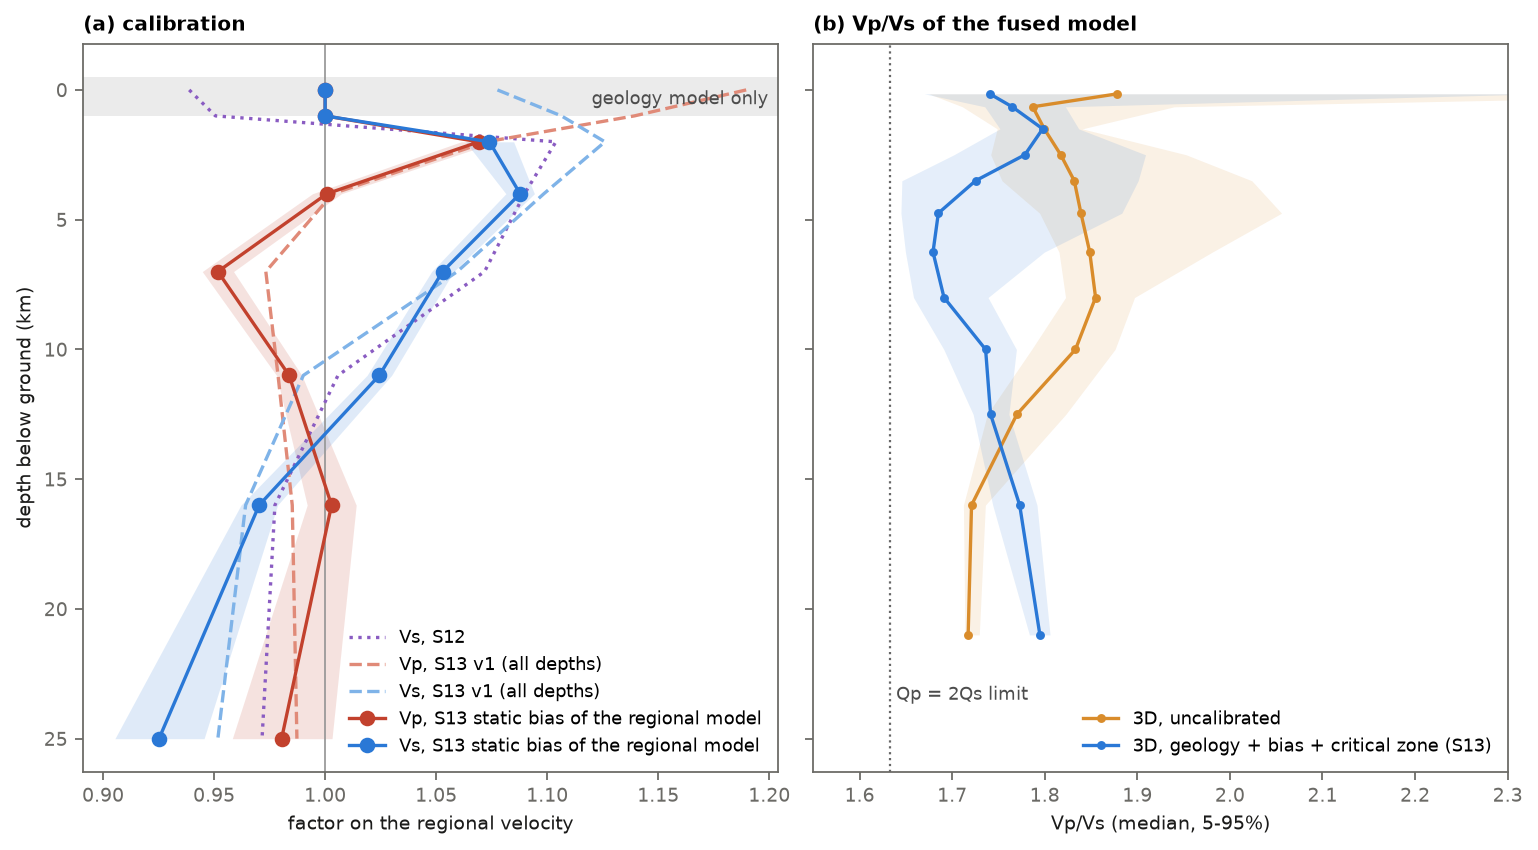
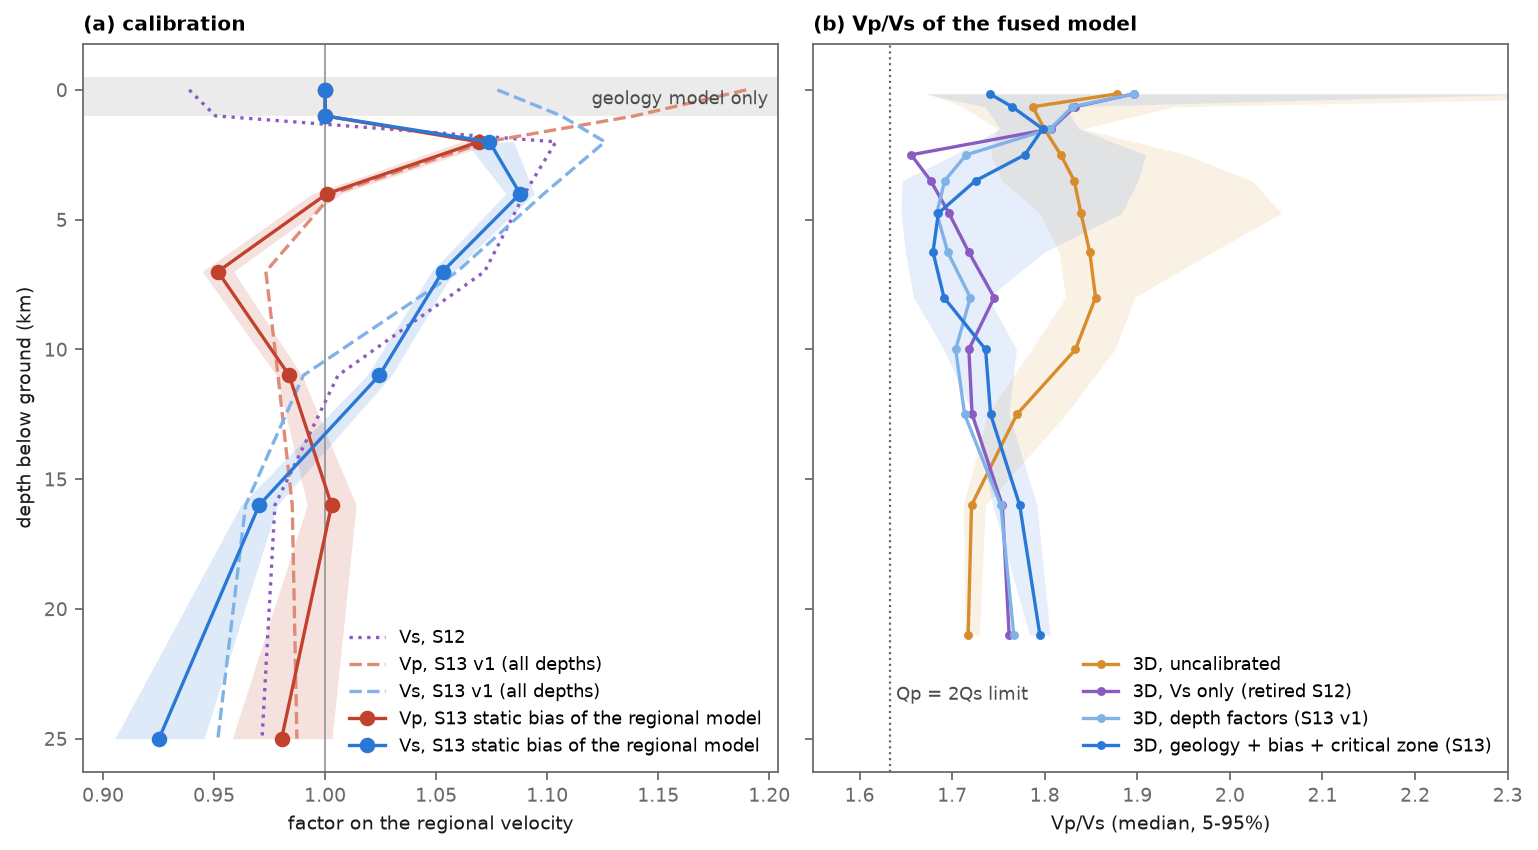
Retired calibration runs restored on cascadia: Fig. 10 and 12 with all five models, their numbers scripted
- The snapshots of the S12 (Vs only) and S13 v1 runs of 24 September 2026 and their S14 relocations, copied
  from the laptop, are now read by S10: their curves are back in Figs. 10 and 12 and in relocation_qc.csv.
- paper_numbers: new group `retired` (cells below Vp/Vs = sqrt(8/3), Vp/Vs at 2-4 km), skipped when the
  snapshots are missing; the S12 TODO is replaced by its source.
- Model table: the Vs-only and depth-factor rows now come from stats.json; Vs-only S RMS is 0.189 (0.18949),
  not 0.190. The above-ground note names the Vs-only run (3 events > 50 m), and the grid-top count is sourced.
- docs/joint_calibration.md: same rounding, Fig. 2 note; the depth-change counts of Table 6 disagree with S10
  for the two retired runs (TODO). docs/velocity_model.md: 19,476 cells below sqrt(8/3).
- Author contributions: scripts S0-S37.

Claude-Session: https://claude.ai/code/session_016VHVLZEWazywevH5nYdiR3

diff --git a/src/rainier3d/report/paper_numbers.py b/src/rainier3d/report/paper_numbers.py
@@ -613,6 +613,40 @@ def uncalibrated():
     )
 
 
+def retired():
+    """Vp/Vs of the two retired calibrations of 24 September 2026 (S12 Vs only, S13 v1 depth factors), from
+    their snapshots, which exist only where they were made or were copied: skipped when they are missing."""
+    from rainier3d.geomodel.rules import AIR, ICE
+
+    stores = {"fused_vscal": "model_vscal_20260924.zarr", "fused_v1": "model_joint_s13.zarr"}
+    out = {}
+    for name, store in stores.items():
+        p = load_domain().path("processed") / store
+        if not p.exists():
+            raise FileNotFoundError(2, "retired snapshot missing", str(p))
+        lv, _ = _levels(store)
+        n_low, r24 = 0, []
+        for ds in lv.values():
+            u, d = ds.unit.values, ds.depth.values
+            ok = (u != AIR) & (u != ICE)
+            r = ds.vp.values / ds.vs.values
+            n_low += int((ok & (r < math.sqrt(8 / 3))).sum())
+            r24.append(r[ok & (d >= 2000) & (d < 4000)])
+        r24 = np.concatenate(r24)
+        out[name] = {
+            "vpvs_below_sqrt83": n_low,
+            "vpvs_2_4km_median": float(np.median(r24)),
+            "vpvs_2_4km_p5": float(np.percentile(r24, 5)),
+        }
+    put(
+        "retired.vpvs",
+        out,
+        "retired calibrations: fused non-air non-ice cells with Vp/Vs < sqrt(8/3), and the median and 5th "
+        "percentile of Vp/Vs at 2-4 km below ground",
+        "data/processed/model_vscal_20260924.zarr, model_joint_s13.zarr (snapshots of 2026-09-24)",
+    )
+
+
 # ----------------------------------------------------------------------------------------------------- S26
 def catalog():
     s = json.loads((REPO / "outputs/catalog/summary.json").read_text())
@@ -806,6 +840,7 @@ GROUPS = {
     "imush": imush,
     "model": model,
     "uncalibrated": uncalibrated,
+    "retired": retired,
     "catalog": catalog,
     "tomography": tomography,
     "applications": applications,

diff --git a/docs/paper/rainier3d_paper.md b/docs/paper/rainier3d_paper.md
@@ -706,12 +706,12 @@ The fit is resolved as follows ([@tbl:multipliers], [@tbl:bias], [@fig:calibrati
 
 : Static correction of the regional models (block `regional_bias`). Formal standard deviations of the log-factors are 0.005–0.023. The deepest knots rest on few rays: 30 events are deeper than 11 km and 7 deeper than 16 km below sea level (37 and 11 below the ground, the depth axis of the table). {#tbl:bias}
 
-![(a) Static correction of the regional Vp and Vs (solid, ±1 standard deviation). The dashed and dotted lines are the two alternative parameterisations of [@tbl:models]. The grey band is the geology-only zone. (b) Median and 5–95% range of Vp/Vs of the fused model against depth below ground.](figures/fig10_calibration.png){#fig:calibration width=100%}
+![(a) Static correction of the regional Vp and Vs (solid, ±1 standard deviation). The dashed and dotted lines are the two alternative parameterisations of [@tbl:models]. The grey band is the geology-only zone. (b) Median Vp/Vs against depth below ground of the uncalibrated model, the two alternatives and the adopted model, with the 5–95% range of the first and last.](figures/fig10_calibration.png){#fig:calibration width=100%}
 
 ![Crack-closure Vp (a) and Vs (b) against depth below ground for three rock units, with table (dashed) and calibrated (solid) parameters. Dotted: median of the Cascadia velocity model over the domain.](figures/fig11_geology_law.png){#fig:law width=100%}
 
 **Why this parameterisation.** Two simpler parameterisations were tested against the same data ([@tbl:models]).
-- **Vs-only depth factor, catalogue hypocentres fixed.** It fits S as well as the adopted model, but pushes Vp/Vs to 1.60–1.67 at 2–4 km. That is low for crustal rock and lower still than expected beneath a volcano with a hydrothermal system: the S−P misfit of fixed hypocentres is partly a location error. This is the earlier S12 calibration (`scripts/12_calibrate_vs.py`, retired and kept in the git history; `configs/vs_calibration.yaml`), which raised Vs by up to 10% at 2–7 km; it left 30,086 fused cells below Vp/Vs = √(8/3) in the model of that time, against 19,476 for the adopted model [TODO: the S12 Vp/Vs range and the 30,086 cells are recorded only in `docs/joint_calibration.md`; S12 is retired].
+- **Vs-only depth factor, catalogue hypocentres fixed.** It fits S as well as the adopted model, but pushes Vp/Vs to 1.60–1.67 at 2–4 km. That is low for crustal rock and lower still than expected beneath a volcano with a hydrothermal system: the S−P misfit of fixed hypocentres is partly a location error. This is the earlier S12 calibration (`scripts/12_calibrate_vs.py`, retired and kept in the git history; `configs/vs_calibration.yaml`), which raised Vs by up to 10% at 2–7 km; it left 30,086 fused cells below Vp/Vs = √(8/3) in the model of that time, against 19,476 for the adopted model (`retired.vpvs` and `model.vpvs_below_sqrt83` in `outputs/paper/numbers.json`; the range is the 5th percentile to the median at 2–4 km below ground).
 - **Depth factors on the regional Vp and Vs at all depths, with relocation.** It fits as well as the adopted model, but places the correction in the regional model where the fusion does not use it. It requires Vp 7–19% faster in the top 2 km, where the fused model follows the geology, and it breaks the fusion invariant (0.050). This is the first S13 run (`configs/velocity_calibration_v1.yaml`): Vp factors of 1.19, 1.14 and 1.07 at 0, 1 and 2 km, and an L1 invariant of 0.050 for Vp and 0.044 for Vs (`docs/joint_calibration.md`; the log of 24 September 2026 is not kept).
 - **Adopted parameterisation.** Fitting the geology's rock physics and correcting the regional model only below 1 km fits equally well, satisfies the invariant (0.011 for Vp and 0.012 for Vs, L1 in `outputs/fusion_report.csv`) and keeps the unit contrasts in physical parameters.
 
@@ -721,18 +721,18 @@ The fit is resolved as follows ([@tbl:multipliers], [@tbl:bias], [@fig:calibrati
 
 **Held-out events.** The 44 events of the held-out half are relocated in every iterate but enter no fit until the last two iterations ([@tbl:iterations]). After the three iterations on the fitting half, their RMS has fallen from 0.125 to 0.094 s for P and from 0.355 to 0.188 s for S, while the fitting half ends at 0.096 and 0.191 s; the held-out misfit is not larger than the fitted one. These are the independent scores of the calibration. The smoothing weight $\lambda_s$ is chosen on the same half (see Validation and choice of smoothing), so they are not fully blind to it. The two final iterations use all 88 events, and the published model (critical zone and EM-based alteration, `data/processed/model.zarr`) relocated with S14 gives 0.093 s for P (949 picks) and 0.188 s for S (655 picks) on the same 44 events, against 0.131 and 0.263 s in the PNSN 1D model; these events are no longer independent of that model. The split is in time, not in space: held-out and fitting events share source regions and ray paths (`outputs/paper/numbers.json`, scored from `outputs/relocation/<model>/picks.csv` with the split of S13: event identifiers in origin-time order, every second one held out).
 
-**All models scored the same way.** [@tbl:models] relocates all 88 events in each model with the same locator and topography. Relocation alone does not rescue the uncalibrated three-dimensional model: its S residuals stay larger than those of the 1D model. The S−P misfit therefore lies in the velocity model, not in the catalogue hypocentres. With the ground bound, no event is placed at the top of the grid, and one of the 88 events ends more than 50 m above the ground in the published model, at the limit of the ground penalty (`outputs/relocation/fused_joint/stats.json`, `above_ground_gt_50m` = 1; three in the conduit-alteration run) [TODO: not reproduced; the conduit-alteration count and the grid-top count are not in `outputs/relocation/*/stats.json`].
+**All models scored the same way.** [@tbl:models] relocates all 88 events in each model with the same locator and topography. Relocation alone does not rescue the uncalibrated three-dimensional model: its S residuals stay larger than those of the 1D model. The S−P misfit therefore lies in the velocity model, not in the catalogue hypocentres. With the ground bound, no event is placed at the top of the grid, and one of the 88 events ends more than 50 m above the ground in the published model, at the limit of the ground penalty (`outputs/relocation/fused_joint/stats.json`, `above_ground_gt_50m` = 1; three in the Vs-only run, `fused_vscal`; none at the grid top in any model, `docs/joint_calibration/relocation_qc.csv`).
 
 | Model | P RMS (s) | S RMS (s) | Epicentre shift from ComCat, median (m) | Depth shift, median (m) |
 |------------------|----|----|------|------|
 | PNSN 1D | 0.132 | 0.268 | 1157 | +511 |
 | 3D, uncalibrated | 0.127 | 0.353 | 1399 | +152 |
-| 3D, Vs-only depth factor¹ | 0.102 | 0.190 | 847 | +306 |
+| 3D, Vs-only depth factor¹ | 0.102 | 0.189 | 847 | +306 |
 | 3D, depth factors on regional Vp and Vs¹ | 0.094 | 0.190 | 835 | +727 |
 | 3D, geology multipliers and regional correction, conduit-centred alteration¹ | 0.095 | 0.190 | 856 | +852 |
 | 3D, published model: recalibrated with the critical zone, EM-based alteration¹ | 0.093 | 0.191 | 830 | +1018 |
 
-: Residuals after relocating all 88 events in each model (S14, `outputs/relocation/<model>/stats.json`; the three rows of 24 September 2026 from `docs/joint_calibration.md`, Table 5, whose relocation outputs are not kept). The PNSN 1D, uncalibrated and published rows were relocated on 27 October 2026 (the uncalibrated model is `model_nocal.zarr`, built by the same code without the calibration); the other three rows are the runs of 24 September 2026, before the critical zone and the smoothing of the geology in the fusion, and are kept as the comparison of parameterisations. Depth shifts are relocated minus ComCat, positive deeper. ¹ Fitted on these events; the held-out scores are the fair measure. {#tbl:models}
+: Residuals after relocating all 88 events in each model (S14, `outputs/relocation/<model>/stats.json`; the conduit-alteration row from `docs/joint_calibration.md`, Table 5, whose relocation outputs are not kept). The PNSN 1D, uncalibrated and published rows were relocated on 27 October 2026 (the uncalibrated model is `model_nocal.zarr`, built by the same code without the calibration); the other three rows are the runs of 24 September 2026, before the critical zone and the smoothing of the geology in the fusion, and are kept as the comparison of parameterisations. Depth shifts are relocated minus ComCat, positive deeper. ¹ Fitted on these events; the held-out scores are the fair measure. {#tbl:models}
 
 ![P (a) and S (b) residuals after relocating all events in each model; the RMS of each model is printed in its colour.](figures/fig12_relocation_residuals.png){#fig:residuals width=100%}
 
@@ -1340,7 +1340,7 @@ The code and this paper were written with an AI coding assistant (Claude, Anthro
 
 # Author contributions {.authorcontribution .unnumbered}
 
-MD conceived the project, designed the model, its pipeline (scripts S0–S29), the calibration and the validation, directed the development of the code and wrote the paper. DY designed and built the three-dimensional viewer (`web/viewer/`). MKö produced the vegetation products of the canopy-storage project (lidar canopy height and cover, Sentinel-2 leaf area index and the gridded GEDI products) and wrote their download and gridding code, vendored in `third_party/canopy-storage_seismic`. MH, SH and MKi contributed to the design of the model and the interpretation of its results through discussions in person and on Slack; SH also specified the terrain-geometry layers (surface and bedrock slope, local relief and valley depth) and their comparison with the mass-movement catalogue. [TODO: confirm that all authors reviewed and edited the manuscript.]
+MD conceived the project, designed the model, its pipeline (scripts S0–S37), the calibration and the validation, directed the development of the code and wrote the paper. DY designed and built the three-dimensional viewer (`web/viewer/`). MKö produced the vegetation products of the canopy-storage project (lidar canopy height and cover, Sentinel-2 leaf area index and the gridded GEDI products) and wrote their download and gridding code, vendored in `third_party/canopy-storage_seismic`. MH, SH and MKi contributed to the design of the model and the interpretation of its results through discussions in person and on Slack; SH also specified the terrain-geometry layers (surface and bedrock slope, local relief and valley depth) and their comparison with the mass-movement catalogue. [TODO: confirm that all authors reviewed and edited the manuscript.]
 
 # Competing interests {.competinginterests .unnumbered}
 

diff --git a/docs/joint_calibration.md b/docs/joint_calibration.md
@@ -186,7 +186,7 @@ Between 0.3 and 4 km, the two models now agree to within 3.5%. Below 4 km, the f
 |---|---|---|---|---|---|
 | PNSN 1D | 0.132 | 0.268 | 1157 | +511 | 642 |
 | 3D, uncalibrated | 0.122 | 0.316 | 1285 | +257 | 647 |
-| 3D, Vs only (S12)¹ | 0.102 | 0.190 | 847 | +306 | 451 |
+| 3D, Vs only (S12)¹ | 0.102 | 0.189 | 847 | +306 | 451 |
 | 3D, depth factors (S13 v1)¹ | 0.094 | 0.190 | 835 | +727 | 432 |
 | 3D, geology + bias (S13 v2)¹ | 0.095 | 0.190 | 856 | +852 | 427 |
 
@@ -196,11 +196,11 @@ The v1 and v2 models fit equally well. They differ in where the correction sits:
 
 With the catalogue hypocentres fixed (S6, `outputs/pnsn_report.txt`), the v2 model gives event-demeaned RMS of 0.132 s for P and 0.227 s for S. The PNSN 1D model gives 0.159 and 0.287 s. The station correlation between the 3D − 1D delay and the mean 1D residual is 0.67 for both phases. S6 scores a model with hypocentres located in another model, so Table 5 is the fair comparison.
 
-![Figure 2. Residuals after relocation (S14) for the models of the current run: PNSN 1D, uncalibrated and published. The runs of the retired models of Table 5 exist only on the machine where they were made, and are left out.](joint_calibration/fig2_residuals.png)
+![Figure 2. Residuals after relocation (S14) for PNSN 1D, the uncalibrated and published models of the current run, and the two retired models of Table 5 (S12 and S13 v1), whose snapshots were copied to cascadia on 6 November 2026. The S13 v2 run is not kept.](joint_calibration/fig2_residuals.png)
 
 ### 4.5 Hypocentres and topography
 
-**Table 6.** Relocation quality control, runs of 24 September 2026. "Above ground" counts events above the DEM interpolated at the epicentre; the location tolerates 50 m. S10 remakes `docs/joint_calibration/relocation_qc.csv` from the current runs: on 27 October 2026, above ground / depth change > 5 km were 10 / 6 (PNSN 1D), 2 / 2 (uncalibrated) and 1 / 2 (published), none at the grid top.
+**Table 6.** Relocation quality control, runs of 24 September 2026. "Above ground" counts events above the DEM interpolated at the epicentre; the location tolerates 50 m. S10 remakes `docs/joint_calibration/relocation_qc.csv` from the current runs: on 27 October 2026, above ground / depth change > 5 km were 10 / 6 (PNSN 1D), 2 / 2 (uncalibrated) and 1 / 2 (published), none at the grid top. From the copied snapshots of the S12 and S13 v1 runs, S10 counts 3 / 3 and 2 / 1: the above-ground counts match the rows below, the depth-change counts (0 below) do not [TODO: find out why; S10 counts relocated minus ComCat depth].
 
 | Model | Events above ground | At grid top | Depth change > 5 km |
 |---|---|---|---|

diff --git a/docs/velocity_model.md b/docs/velocity_model.md
@@ -177,7 +177,7 @@ The command line does the same without Python:
   (correlation 0.66–0.74, about half the amplitude), and almost nothing below 12 km or under the summit below
   5 km. Where ray coverage is low, the update is set by the smoothing. `/let` holds the ray coverage (`dws_p`,
   `dws_s`).
-- **Attenuation:** Q follows a rule on Vs. In the 18,544 of 2.24 million cells with Vp/Vs below √(8/3), the rule
+- **Attenuation:** Q follows a rule on Vs. In the 19,476 of 2.24 million cells with Vp/Vs below √(8/3), the rule
   implies a negative bulk quality factor.
 - **No per-cell uncertainty:** the model has no uncertainty at each cell. The paper's uncertainty table
   (Sect. 9) says, product by product, what is quantified and what is not.
